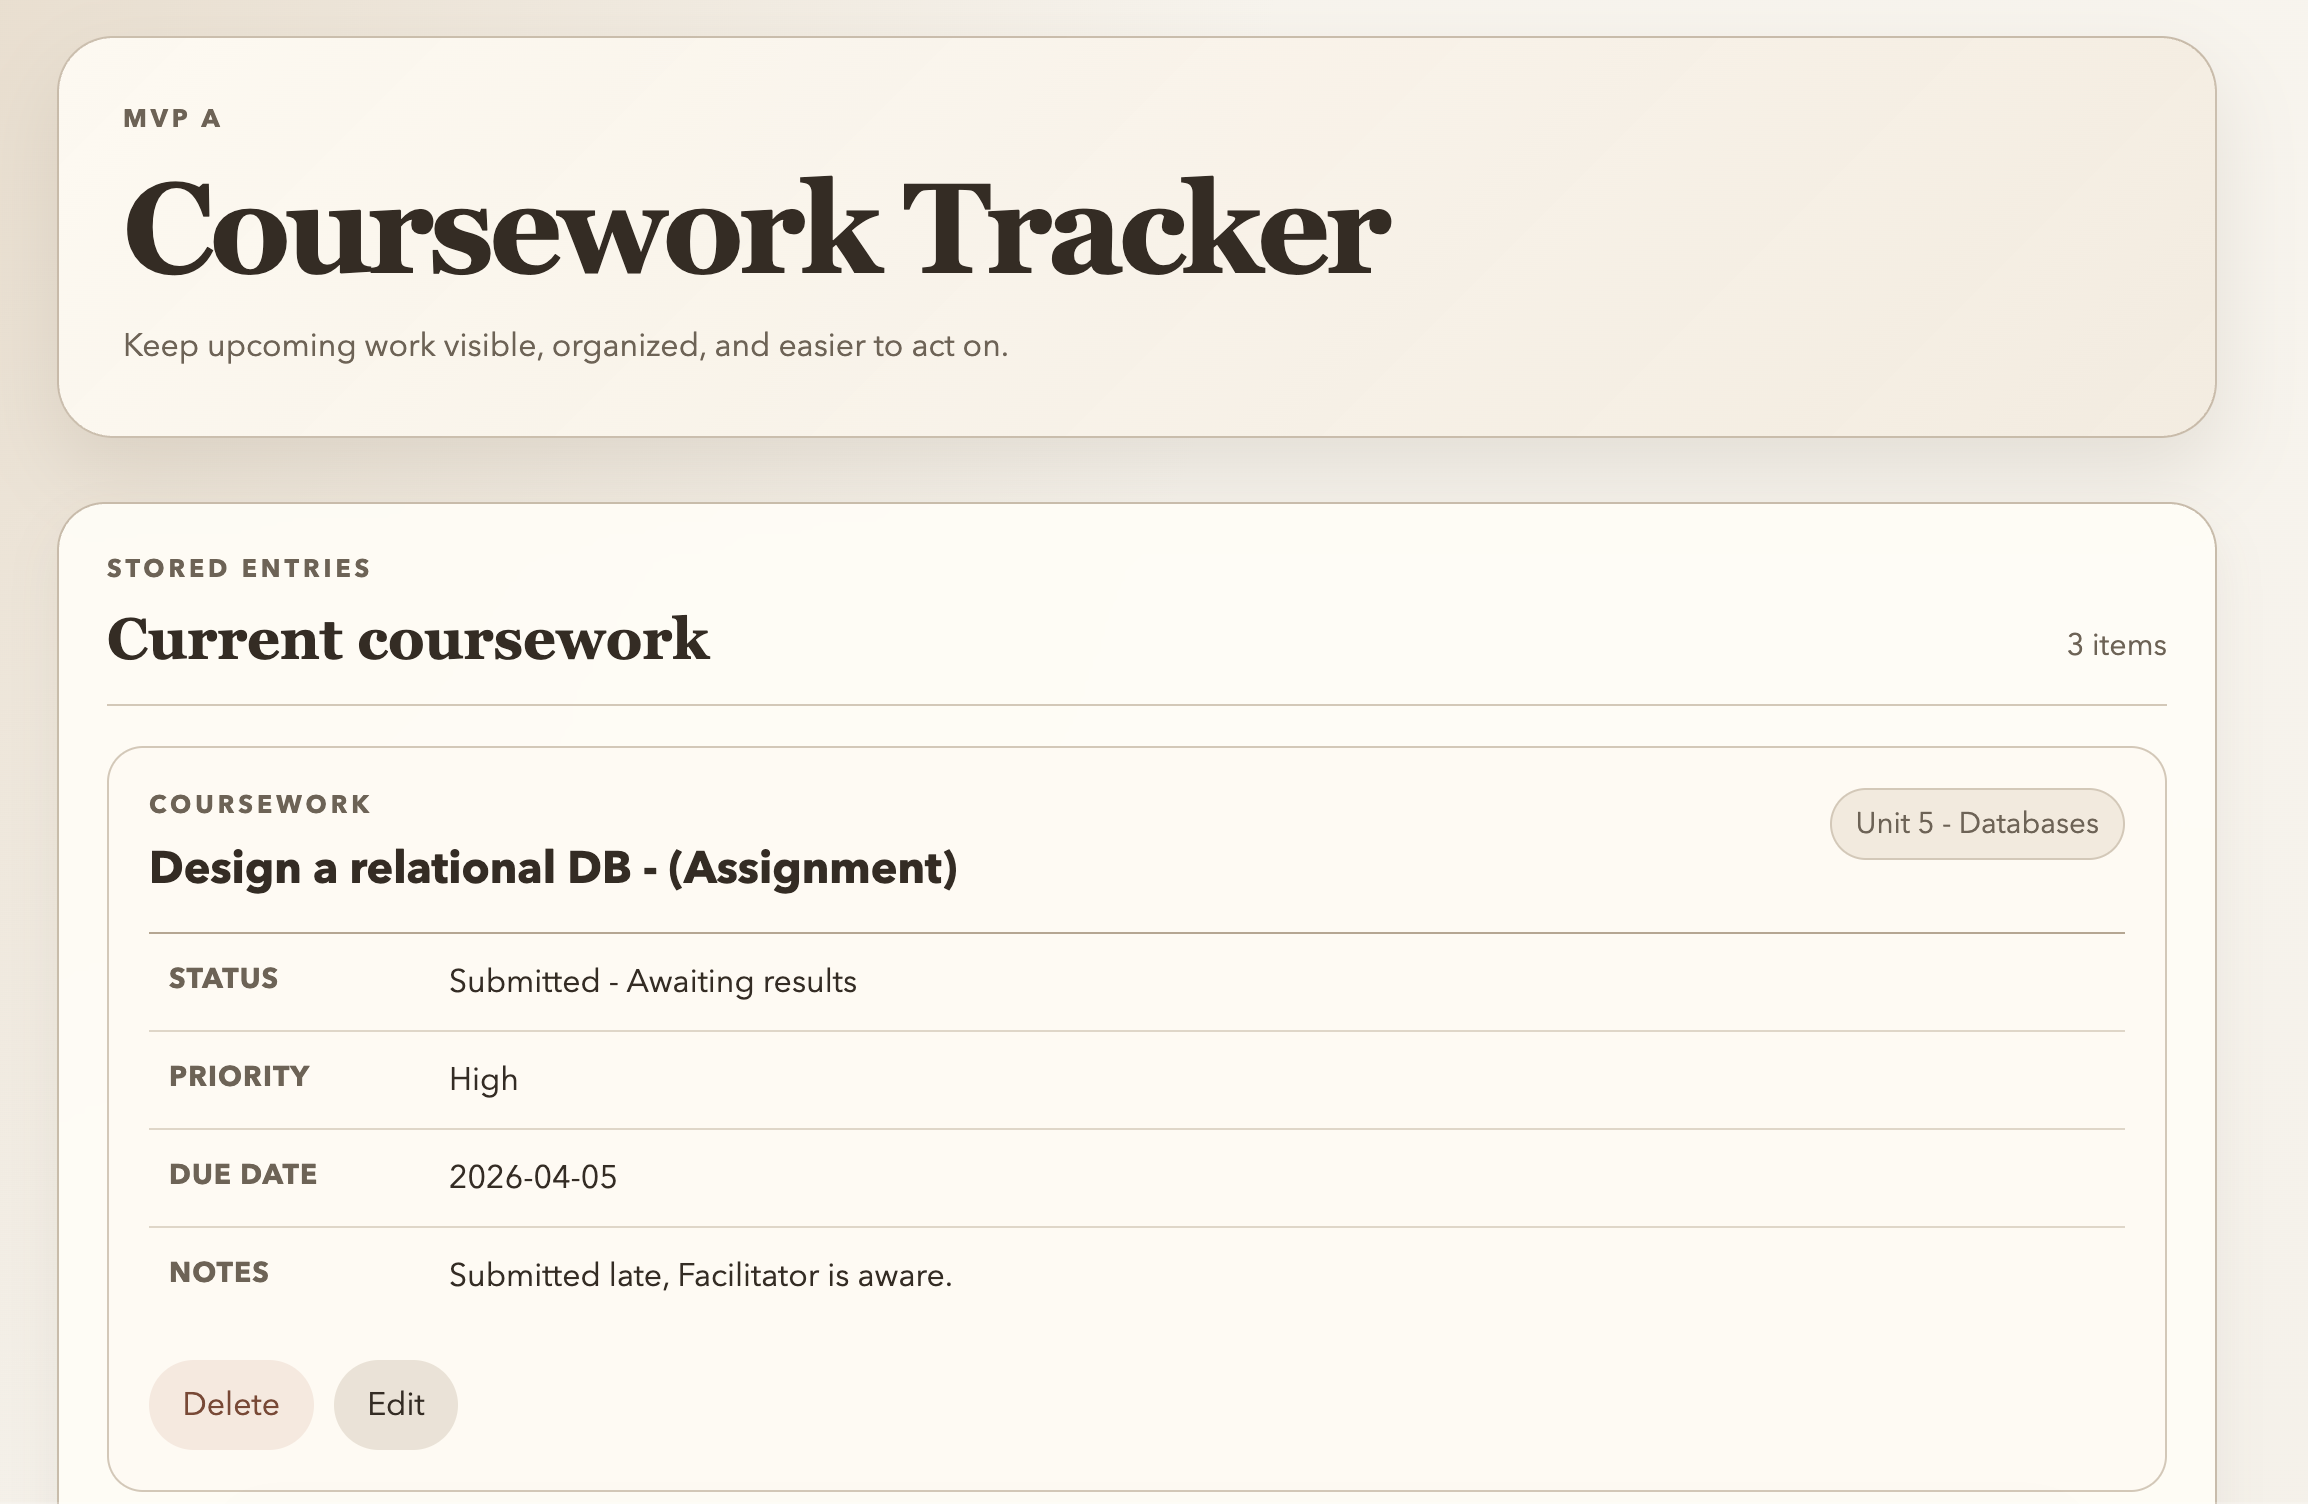
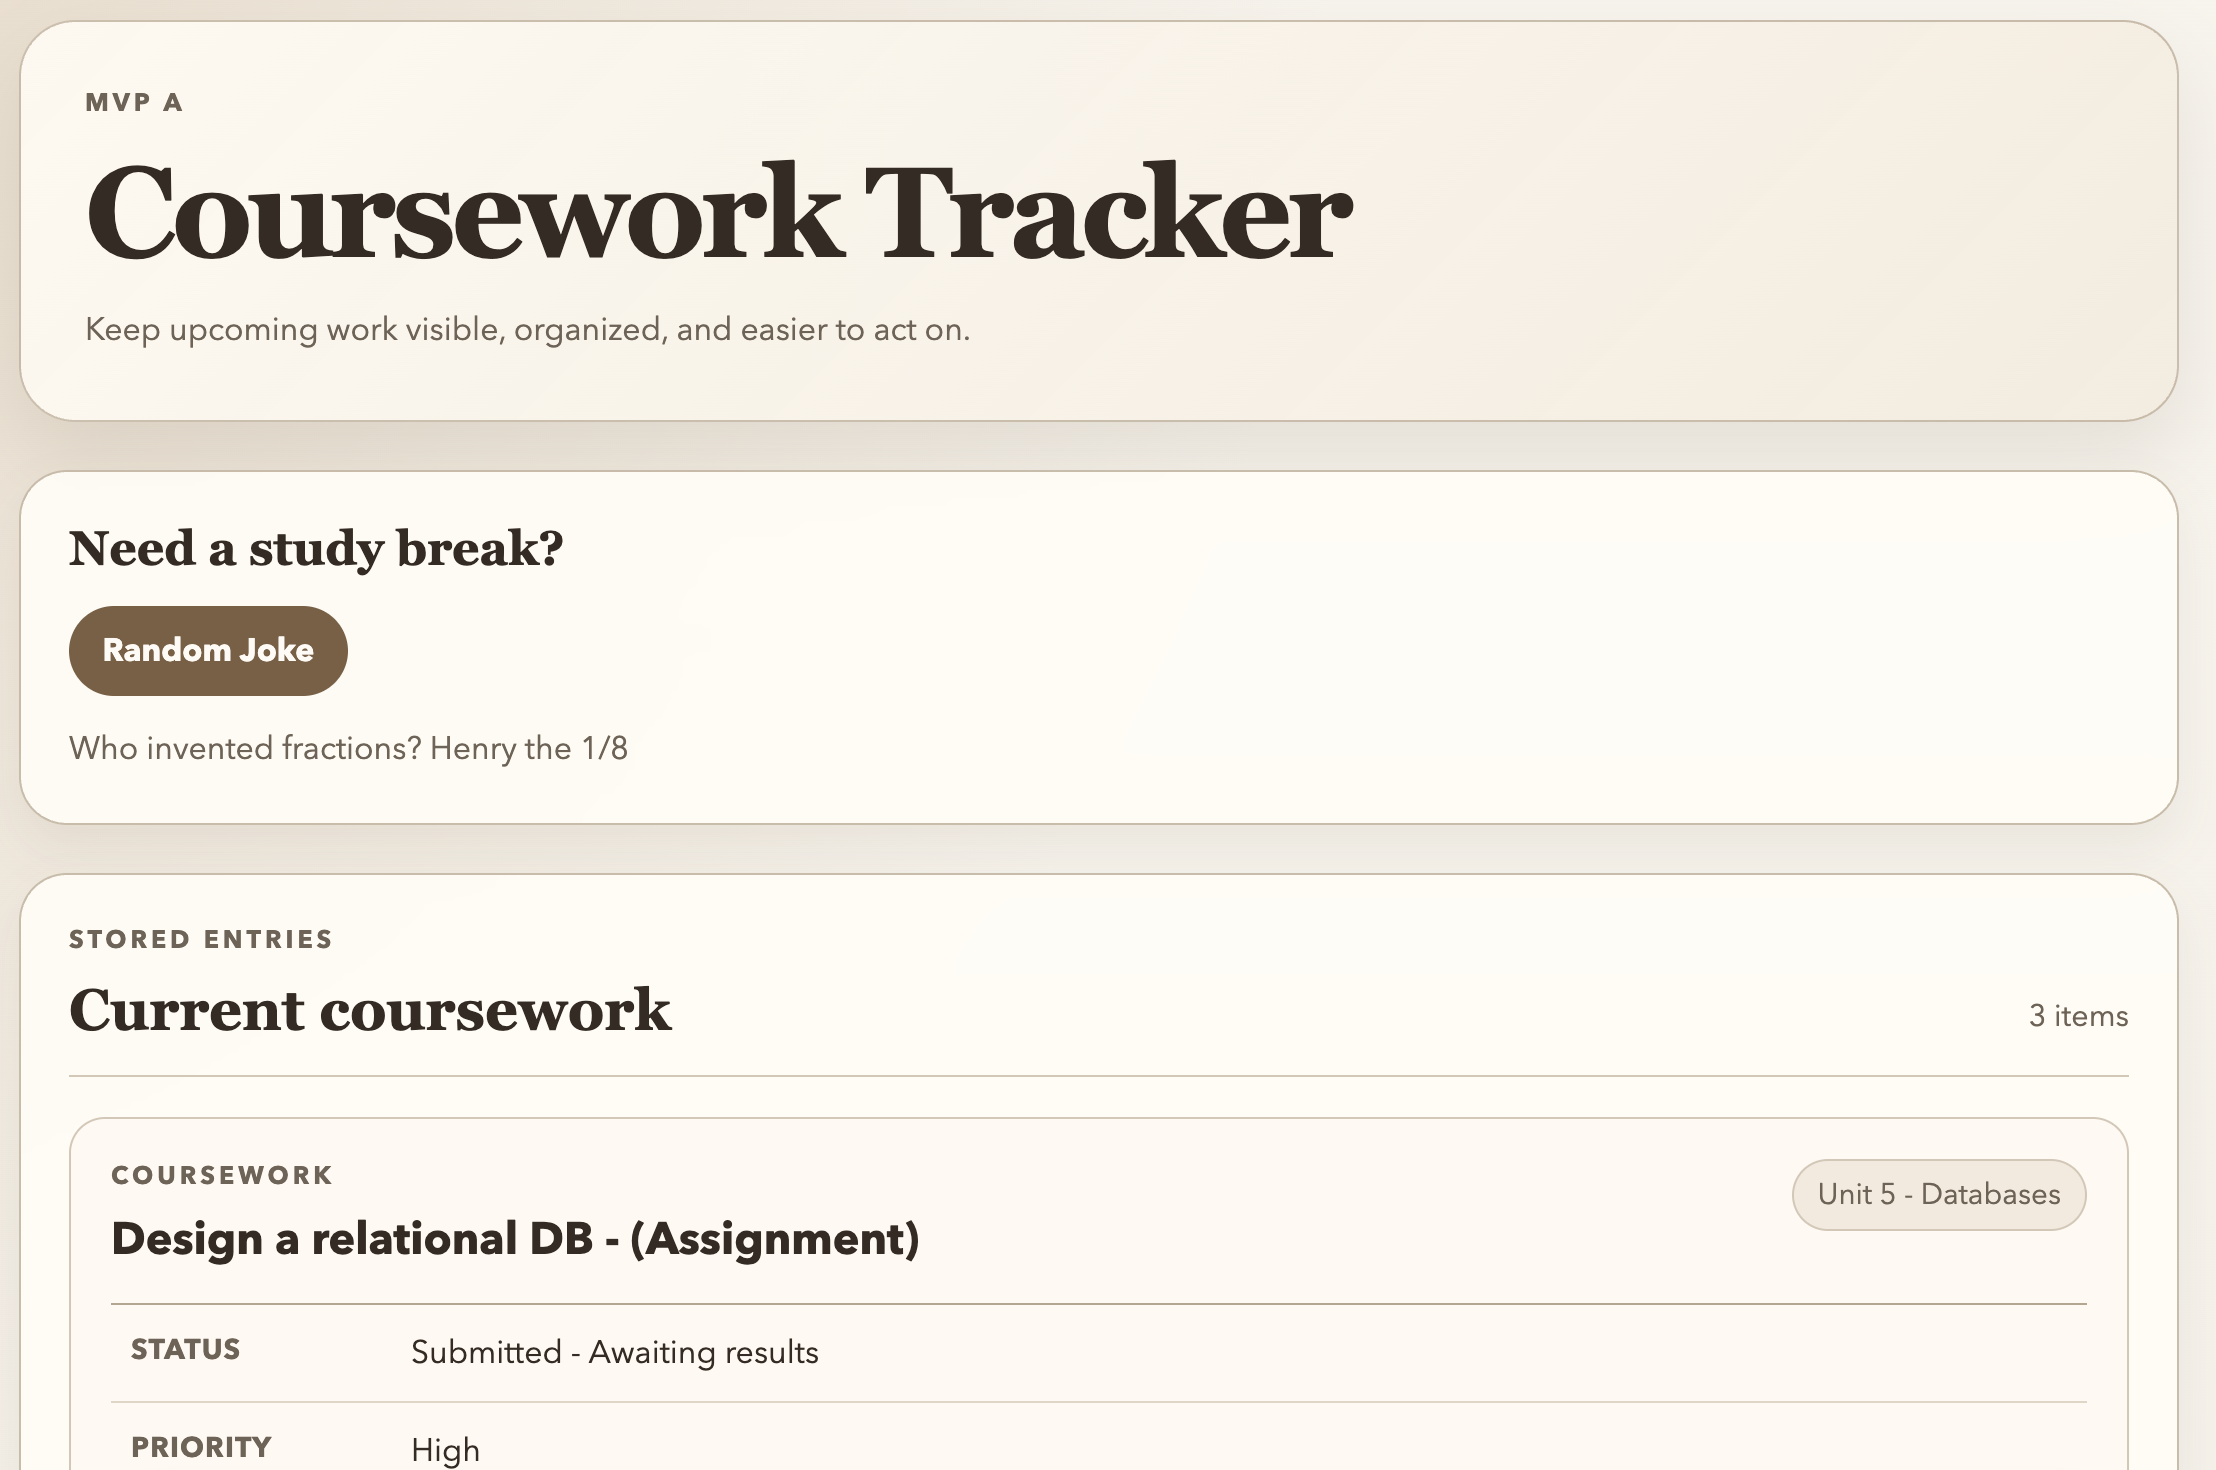
README updated with progress and new screenshot

diff --git a/README.md b/README.md
@@ -2,7 +2,7 @@
 
 ## Preview
 
-  ![App Screenshot](./images/coursework%20tracker%20screenshot.png)
+![App Screenshot](./images/coursework%20tracker%20screenshot.png)
 
 ---
 
@@ -10,20 +10,21 @@
 
 A simple tool to keep track of:
 
-- upcoming assignments  
-- next steps in a course  
-- general coursework progress  
+- upcoming assignments
+- next steps in a course
+- general coursework progress
 
 The focus is on clarity and functionality over complexity.
 
 ---
 
-## Current Stage — MVP A
+## Current Stage — MVP A (Almost Complete)
 
 - Core fullstack setup complete (DB + API + frontend)
 - Coursework items can be stored and retrieved
 - UI styling complete
 - Accessibility checks complete
+- External API integration (random joke feature) implemented successfully
 
 This version represents a clean, functional base with a polished UI.
 
@@ -31,17 +32,17 @@ This version represents a clean, functional base with a polished UI.
 
 ## Tech Stack
 
-- **Frontend:** React + TypeScript  
-- **Backend:** Node.js + Express  
-- **Database:** SQLite3 (via Knex)  
-- **Tools:** React Query, Postman, Git  
+- **Frontend:** React + TypeScript
+- **Backend:** Node.js + Express
+- **Database:** SQLite3 (via Knex)
+- **Tools:** React Query, Postman, Git
 
 ---
 
 ## Next Steps (MVP A)
 
-- Add external API integration (random/funny quote in top-right corner)
-- Continue refining UX and data flow where needed
+- Final UX polish and small refinements
+- Tighten data flow where needed
 
 ---
 
@@ -57,6 +58,6 @@ This version represents a clean, functional base with a polished UI.
 
 This project is intentionally kept as an MVP:
 
-- single data model  
-- minimal features  
-- built to be extended, not over-engineered early  
+- single data model
+- minimal features
+- built to be extended, not over-engineered early
